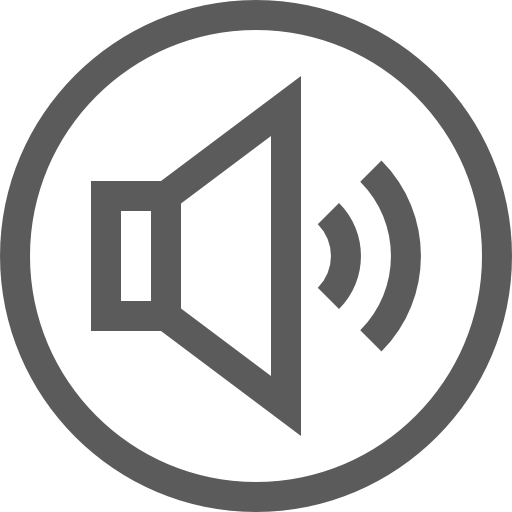
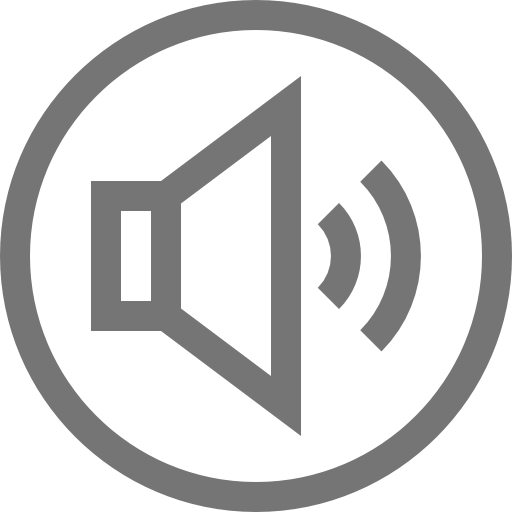
Fixed blurry images

diff --git a/VideoPlayer/UserControls/MediaPlayerUserControl.xaml b/VideoPlayer/UserControls/MediaPlayerUserControl.xaml
@@ -6,8 +6,9 @@
              xmlns:local="clr-namespace:VideoPlayer.UserControls"
              mc:Ignorable="d"
              d:DesignHeight="535"
-             d:DesignWidth="800">
-
+             d:DesignWidth="800"
+             UseLayoutRounding="True"
+             RenderOptions.BitmapScalingMode="HighQuality">
     <UserControl.CommandBindings>
         <CommandBinding Command="{x:Static local:MediaPlayerUserControl.PlayPauseCmd}"
                         CanExecute="CommandCanExecute"
@@ -82,17 +83,17 @@
                     Grid.Row="2"
                     Orientation="Horizontal">
 
-            <Button x:Name="buttonPlayPause"
-                    Style="{StaticResource ImageButton}"
-                    IsEnabled="False"
-                    Click="ButtonPlayPause_Click">
-                <Image x:Name="imagePlayPause" />
-            </Button>
             <Button x:Name="buttonStop"
                     Style="{StaticResource ImageButton}"
                     IsEnabled="False"
                     Click="ButtonStop_Click">
                 <Image x:Name="imageStop" />
+            </Button>
+            <Button x:Name="buttonPlayPause"
+                    Style="{StaticResource ImageButton}"
+                    IsEnabled="False"
+                    Click="ButtonPlayPause_Click">
+                <Image x:Name="imagePlayPause" />
             </Button>
             <Button x:Name="buttonOpen"
                     Style="{StaticResource ImageButton}"

diff --git a/VideoPlayer/UserControls/ViewModels/MediaPlayerUserControlViewModel.cs b/VideoPlayer/UserControls/ViewModels/MediaPlayerUserControlViewModel.cs
@@ -14,7 +14,7 @@ namespace VideoPlayer.UserControls.ViewModels
 {
     public class MediaPlayerUserControlViewModel
     {
-        private readonly MediaPlayerUserControl mediaPlayerUserControl;
+        private readonly MediaPlayerUserControl userControl;
 
         public readonly Image PlayImage;
         public readonly Image PlayImageDisabled;
@@ -50,7 +50,7 @@ namespace VideoPlayer.UserControls.ViewModels
 
         public MediaPlayerUserControlViewModel(MediaPlayerUserControl mediaPlayerUserControl)
         {
-            this.mediaPlayerUserControl = mediaPlayerUserControl;
+            userControl = mediaPlayerUserControl;
 
             mediaPlayerUserControl.Focusable = true;
             mediaPlayerUserControl.Loaded += (s, e) => Keyboard.Focus(mediaPlayerUserControl);
@@ -155,14 +155,14 @@ namespace VideoPlayer.UserControls.ViewModels
         }
         private void ProgressTimer_Tick(object sender, EventArgs e)
         {
-            mediaPlayerUserControl.sliderProgress.Value = mediaPlayerUserControl.player.Position.TotalSeconds;
+            userControl.sliderProgress.Value = userControl.player.Position.TotalSeconds;
         }
 
         public bool IsPlaying
         {
             get
             {
-                switch (GetMediaState(mediaPlayerUserControl.player))
+                switch (GetMediaState(userControl.player))
                 {
                     case MediaState.Manual:
                         return false;
@@ -195,7 +195,7 @@ namespace VideoPlayer.UserControls.ViewModels
         {
             get
             {
-                switch (GetMediaState(mediaPlayerUserControl.player))
+                switch (GetMediaState(userControl.player))
                 {
                     case MediaState.Manual:
                         return false;
@@ -235,110 +235,110 @@ namespace VideoPlayer.UserControls.ViewModels
 
         public void ShowTime()
         {
-            if (mediaPlayerUserControl.player.NaturalDuration.HasTimeSpan)
+            if (userControl.player.NaturalDuration.HasTimeSpan)
             {
-                TimeSpan currentTime = TimeSpan.FromSeconds(mediaPlayerUserControl.sliderProgress.Value);
-                mediaPlayerUserControl.textBlockDuration.Text = $"{currentTime.ToString(@"m\:ss")} / {mediaPlayerUserControl.player.NaturalDuration.TimeSpan.ToString(@"m\:ss")}";
+                TimeSpan currentTime = TimeSpan.FromSeconds(userControl.sliderProgress.Value);
+                userControl.textBlockDuration.Text = $"{currentTime.ToString(@"m\:ss")} / {userControl.player.NaturalDuration.TimeSpan.ToString(@"m\:ss")}";
             }
         }
 
         public void DisablePlayPause()
         {
-            mediaPlayerUserControl.buttonPlayPause.IsEnabled = false;
+            userControl.buttonPlayPause.IsEnabled = false;
 
-            if (mediaPlayerUserControl.imagePlayPause.Source == PlayImage.Source)
+            if (userControl.imagePlayPause.Source == PlayImage.Source)
             {
-                mediaPlayerUserControl.imagePlayPause.Source = PlayImageDisabled.Source;
+                userControl.imagePlayPause.Source = PlayImageDisabled.Source;
             }
-            else if (mediaPlayerUserControl.imagePlayPause.Source == PauseImage.Source)
+            else if (userControl.imagePlayPause.Source == PauseImage.Source)
             {
-                mediaPlayerUserControl.imagePlayPause.Source = PauseImageDisabled.Source;
+                userControl.imagePlayPause.Source = PauseImageDisabled.Source;
             }
         }
 
         public void EnablePlayPause()
         {
-            mediaPlayerUserControl.buttonPlayPause.IsEnabled = true;
+            userControl.buttonPlayPause.IsEnabled = true;
 
-            if (mediaPlayerUserControl.imagePlayPause.Source == PlayImageDisabled.Source)
+            if (userControl.imagePlayPause.Source == PlayImageDisabled.Source)
             {
-                mediaPlayerUserControl.imagePlayPause.Source = PlayImage.Source;
+                userControl.imagePlayPause.Source = PlayImage.Source;
             }
-            else if (mediaPlayerUserControl.imagePlayPause.Source == PauseImageDisabled.Source)
+            else if (userControl.imagePlayPause.Source == PauseImageDisabled.Source)
             {
-                mediaPlayerUserControl.imagePlayPause.Source = PauseImage.Source;
+                userControl.imagePlayPause.Source = PauseImage.Source;
             }
         }
 
         public void DisableStop()
         {
-            mediaPlayerUserControl.buttonStop.IsEnabled = false;
-            mediaPlayerUserControl.imageStop.Source = StopImageDisabled.Source;
+            userControl.buttonStop.IsEnabled = false;
+            userControl.imageStop.Source = StopImageDisabled.Source;
         }
 
         public void EnableStop()
         {
-            mediaPlayerUserControl.buttonStop.IsEnabled = true;
-            mediaPlayerUserControl.imageStop.Source = StopImage.Source;
+            userControl.buttonStop.IsEnabled = true;
+            userControl.imageStop.Source = StopImage.Source;
         }
 
         public void Open(string filePath)
         {
-            if (mediaPlayerUserControl.player.NaturalDuration.HasTimeSpan)
+            if (userControl.player.NaturalDuration.HasTimeSpan)
             {
                 Stop();
             }
 
             Media video = new Media(filePath);
-            mediaPlayerUserControl.player.Source = video.Uri;
+            userControl.player.Source = video.Uri;
             Play();
         }
 
         public void Play()
         {
             ProgressTimer.Start();
-            mediaPlayerUserControl.player.Play();
-            mediaPlayerUserControl.imagePlayPause.Source = PauseImage.Source;
+            userControl.player.Play();
+            userControl.imagePlayPause.Source = PauseImage.Source;
         }
 
         public void Pause()
         {
             ProgressTimer.Stop();
-            mediaPlayerUserControl.player.Pause();
-            mediaPlayerUserControl.imagePlayPause.Source = PlayImage.Source;
+            userControl.player.Pause();
+            userControl.imagePlayPause.Source = PlayImage.Source;
         }
 
         public void Stop()
         {
-            mediaPlayerUserControl.player.Close();
-            mediaPlayerUserControl.player.Source = null;
+            userControl.player.Close();
+            userControl.player.Source = null;
 
             DisablePlayPause();
             DisableStop();
 
             ProgressTimer.Stop();
-            mediaPlayerUserControl.sliderProgress.Value = 0;
-            mediaPlayerUserControl.textBlockDuration.Text = "0:00 / 0:00";
+            userControl.sliderProgress.Value = 0;
+            userControl.textBlockDuration.Text = "0:00 / 0:00";
         }
 
         public bool MuteToggle()
         {
-            if (mediaPlayerUserControl.player.Volume > 0)
+            if (userControl.player.Volume > 0)
             {
-                OldVolume = mediaPlayerUserControl.player.Volume;
-                mediaPlayerUserControl.sliderVolume.Value = 0;
+                OldVolume = userControl.player.Volume;
+                userControl.sliderVolume.Value = 0;
 
                 return true;
             }
             else if (OldVolume == 0)
             {
-                mediaPlayerUserControl.sliderVolume.Value = 1;
-                OldVolume = mediaPlayerUserControl.player.Volume;
+                userControl.sliderVolume.Value = 1;
+                OldVolume = userControl.player.Volume;
             }
             else
             {
-                mediaPlayerUserControl.sliderVolume.Value = OldVolume;
-                OldVolume = mediaPlayerUserControl.player.Volume;
+                userControl.sliderVolume.Value = OldVolume;
+                OldVolume = userControl.player.Volume;
             }
 
             return false;
@@ -346,14 +346,14 @@ namespace VideoPlayer.UserControls.ViewModels
 
         public void ButtonPlayPause_Click(object sender, RoutedEventArgs e)
         {
-            MediaPlayerUserControl.PlayPauseCmd.Execute(null, mediaPlayerUserControl.buttonPlayPause);
-            mediaPlayerUserControl.Focus();
+            MediaPlayerUserControl.PlayPauseCmd.Execute(null, userControl.buttonPlayPause);
+            userControl.Focus();
         }
 
         private void ButtonStop_Click(object sender, RoutedEventArgs e)
         {
             Stop();
-            mediaPlayerUserControl.Focus();
+            userControl.Focus();
         }
 
         private void ButtonOpen_Click(object sender, RoutedEventArgs e)
@@ -370,7 +370,7 @@ namespace VideoPlayer.UserControls.ViewModels
                 Open(openFileDialog.FileName);
             }
 
-            mediaPlayerUserControl.Focus();
+            userControl.Focus();
         }
 
         private void Player_MediaEnded(object sender, RoutedEventArgs e)
@@ -382,9 +382,9 @@ namespace VideoPlayer.UserControls.ViewModels
         {
             Play();
 
-            position = mediaPlayerUserControl.player.NaturalDuration.TimeSpan;
-            mediaPlayerUserControl.sliderProgress.Minimum = 0;
-            mediaPlayerUserControl.sliderProgress.Maximum = position.TotalSeconds;
+            position = userControl.player.NaturalDuration.TimeSpan;
+            userControl.sliderProgress.Minimum = 0;
+            userControl.sliderProgress.Maximum = position.TotalSeconds;
 
             EnablePlayPause();
             EnableStop();
@@ -394,15 +394,15 @@ namespace VideoPlayer.UserControls.ViewModels
 
         private void SliderProgress_PreviewMouseLeftButtonDown(object sender, MouseButtonEventArgs e)
         {
-            mediaPlayerUserControl.player.Pause();
+            userControl.player.Pause();
             ProgressTimer.Stop();
         }
 
         private void SliderProgress_PreviewMouseLeftButtonUp(object sender, MouseButtonEventArgs e)
         {
-            int pos = Convert.ToInt32(mediaPlayerUserControl.sliderProgress.Value);
-            mediaPlayerUserControl.player.Position = new TimeSpan(0, 0, 0, pos, 0);
-            mediaPlayerUserControl.player.Play();
+            int pos = Convert.ToInt32(userControl.sliderProgress.Value);
+            userControl.player.Position = new TimeSpan(0, 0, 0, pos, 0);
+            userControl.player.Play();
             ProgressTimer.Start();
         }
 
@@ -413,61 +413,41 @@ namespace VideoPlayer.UserControls.ViewModels
 
         private void SliderVolume_ValueChanged(object sender, RoutedPropertyChangedEventArgs<double> e)
         {
-            if (!mediaPlayerUserControl.IsLoaded) return;
+            if (!userControl.IsLoaded) return;
 
-            mediaPlayerUserControl.player.Volume = mediaPlayerUserControl.sliderVolume.Value;
+            userControl.player.Volume = userControl.sliderVolume.Value;
 
-            if (mediaPlayerUserControl.sliderVolume.Value == 0)
+            if (userControl.sliderVolume.Value == 0)
             {
-                mediaPlayerUserControl.imageMuteUnmute.Source = MutedImage.Source;
+                userControl.imageMuteUnmute.Source = MutedImage.Source;
             }
-            else if (mediaPlayerUserControl.sliderVolume.Value <= .5)
+            else if (userControl.sliderVolume.Value <= .5)
             {
-                mediaPlayerUserControl.imageMuteUnmute.Source = LowVolume.Source;
+                userControl.imageMuteUnmute.Source = LowVolume.Source;
             }
             else
             {
-                mediaPlayerUserControl.imageMuteUnmute.Source = HighVolume.Source;
+                userControl.imageMuteUnmute.Source = HighVolume.Source;
             }
         }
 
         private void SliderVolume_PreviewMouseLeftButtonDown(object sender, MouseButtonEventArgs e)
         {
-            OldVolume = mediaPlayerUserControl.sliderVolume.Value;
+            OldVolume = userControl.sliderVolume.Value;
         }
 
         private void SliderVolume_PreviewMouseLeftButtonUp(object sender, MouseButtonEventArgs e)
         {
-            if (mediaPlayerUserControl.sliderVolume.Value > 0)
+            if (userControl.sliderVolume.Value > 0)
             {
-                OldVolume = mediaPlayerUserControl.sliderVolume.Value;
+                OldVolume = userControl.sliderVolume.Value;
             }
         }
 
         private void ButtonMuteUnmute_Click(object sender, RoutedEventArgs e)
         {
             MuteToggle();
-            mediaPlayerUserControl.Focus();
-        }
-
-        private void UserControl_KeyDown(object sender, KeyEventArgs e)
-        {
-            if (e.Key == Key.Space)
-            {
-                IsPlaying = !IsPlaying;
-            }
-            else if (e.Key == Key.Right)
-            {
-                int pos = Convert.ToInt32(mediaPlayerUserControl.sliderProgress.Value + 5);
-                mediaPlayerUserControl.player.Position = new TimeSpan(0, 0, 0, pos, 0);
-                mediaPlayerUserControl.sliderProgress.Value = mediaPlayerUserControl.player.Position.TotalSeconds;
-            }
-            else if (e.Key == Key.Left)
-            {
-                int pos = Convert.ToInt32(mediaPlayerUserControl.sliderProgress.Value - 5);
-                mediaPlayerUserControl.player.Position = new TimeSpan(0, 0, 0, pos, 0);
-                mediaPlayerUserControl.sliderProgress.Value = mediaPlayerUserControl.player.Position.TotalSeconds;
-            }
+            userControl.Focus();
         }
     }
 }

diff --git a/VideoPlayer/MainWindow.xaml.cs b/VideoPlayer/MainWindow.xaml.cs
@@ -1,6 +1,4 @@
-using System;
-using System.Windows;
-using System.Windows.Input;
+using System.Windows;
 using VideoPlayer.UserControls;
 
 namespace VideoPlayer
